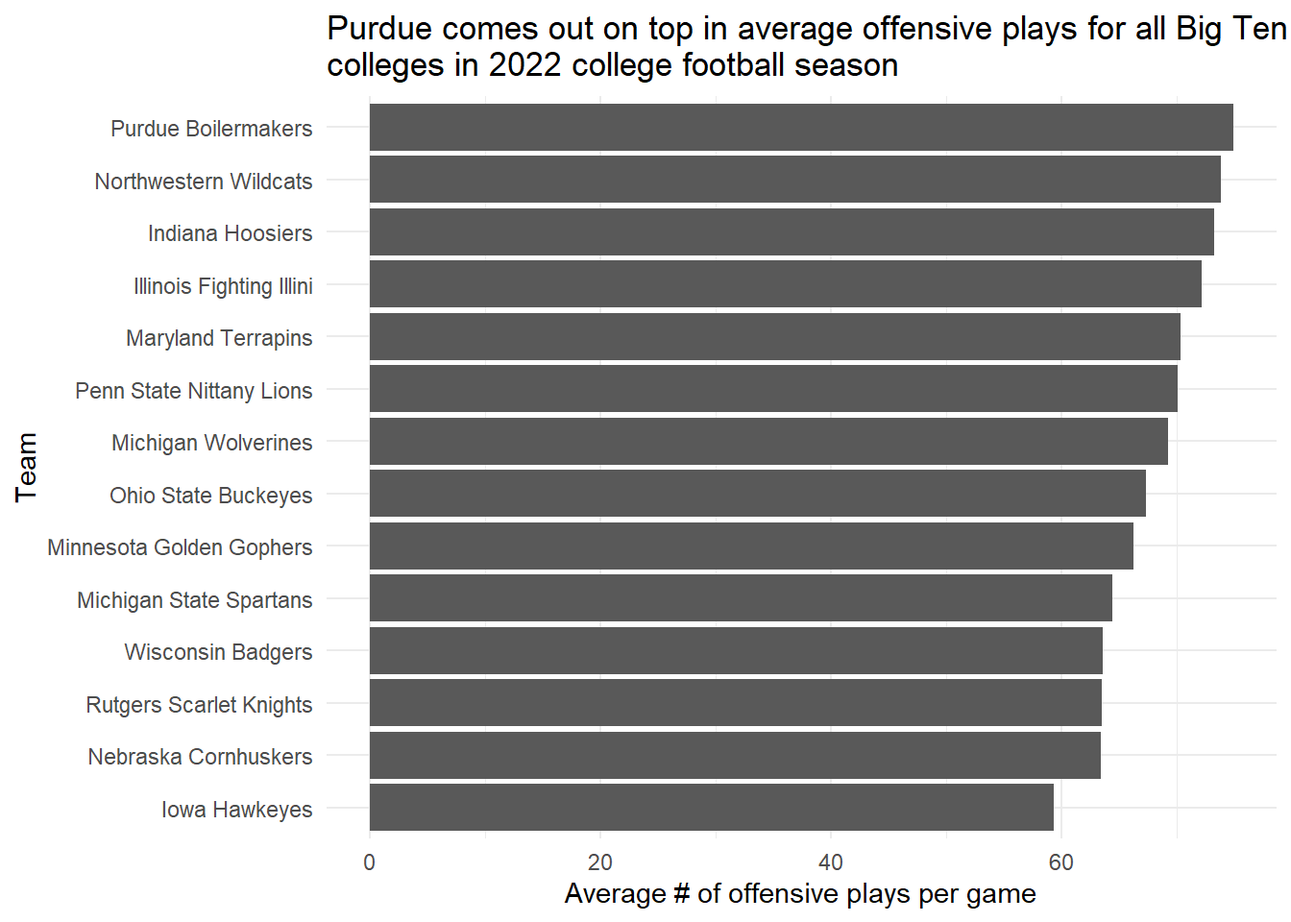
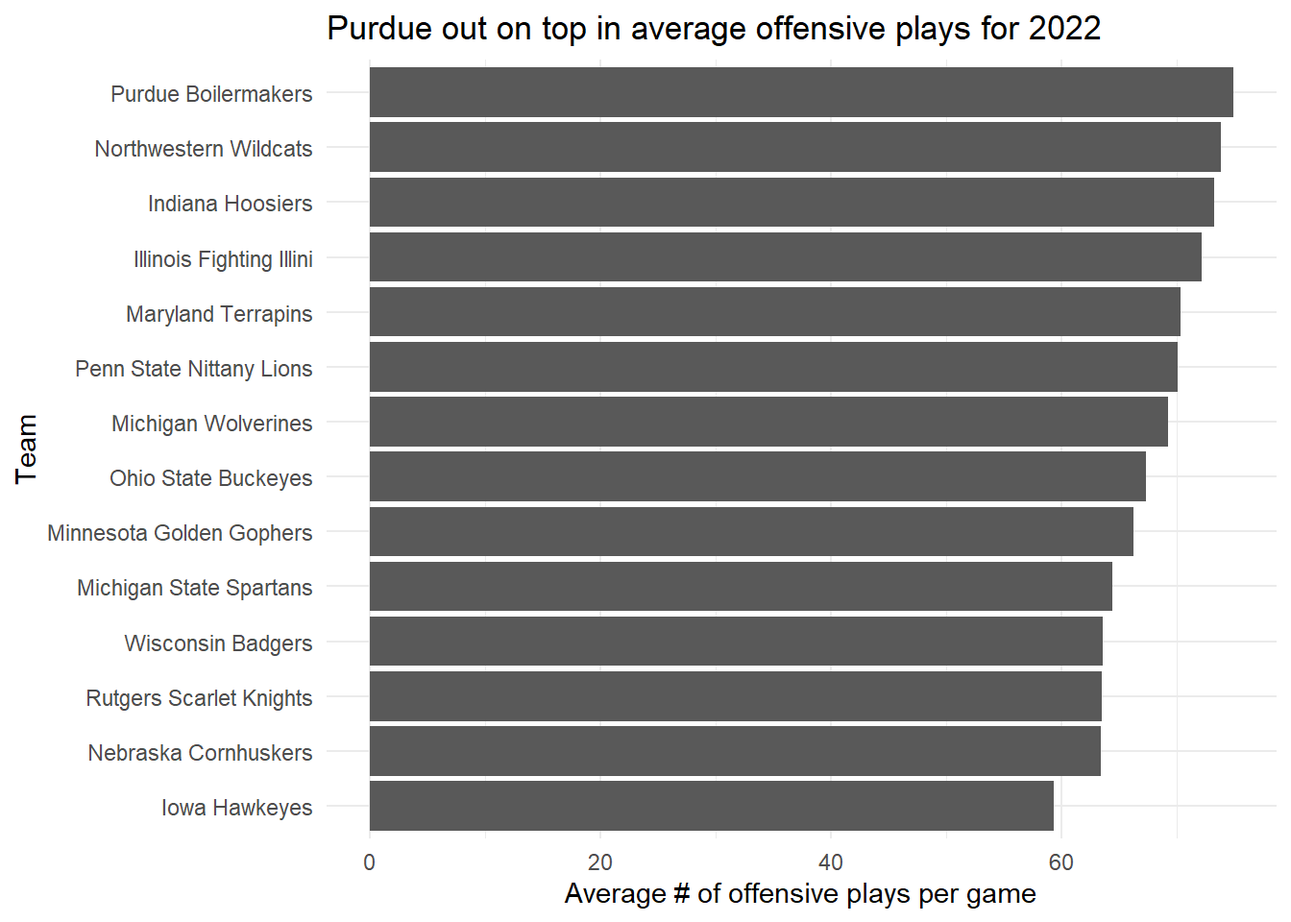
Push

diff --git a/docs/posts/big-ten-plays/index.html b/docs/posts/big-ten-plays/index.html
@@ -180,113 +180,41 @@ pre > code.sourceCode > span > a:first-child::before { text-decoration: underlin
 <div class="cell">
 <details>
 <summary>Code</summary>
-<div class="sourceCode cell-code" id="cb1"><pre class="sourceCode r code-with-copy"><code class="sourceCode r"><span id="cb1-1"><a href="#cb1-1" aria-hidden="true" tabindex="-1"></a><span class="fu">library</span>(tidyverse)</span></code><button title="Copy to Clipboard" class="code-copy-button"><i class="bi"></i></button></pre></div>
+<div class="sourceCode cell-code" id="cb1"><pre class="sourceCode r code-with-copy"><code class="sourceCode r"><span id="cb1-1"><a href="#cb1-1" aria-hidden="true" tabindex="-1"></a><span class="fu">library</span>(tidyverse)</span>
+<span id="cb1-2"><a href="#cb1-2" aria-hidden="true" tabindex="-1"></a><span class="fu">library</span>(scales)</span></code><button title="Copy to Clipboard" class="code-copy-button"><i class="bi"></i></button></pre></div>
 </details>
-<div class="cell-output cell-output-stderr">
-<pre><code>Warning: package 'tidyverse' was built under R version 4.2.3</code></pre>
-</div>
-<div class="cell-output cell-output-stderr">
-<pre><code>Warning: package 'ggplot2' was built under R version 4.2.3</code></pre>
-</div>
-<div class="cell-output cell-output-stderr">
-<pre><code>Warning: package 'tibble' was built under R version 4.2.3</code></pre>
-</div>
-<div class="cell-output cell-output-stderr">
-<pre><code>Warning: package 'readr' was built under R version 4.2.3</code></pre>
-</div>
-<div class="cell-output cell-output-stderr">
-<pre><code>Warning: package 'purrr' was built under R version 4.2.3</code></pre>
-</div>
-<div class="cell-output cell-output-stderr">
-<pre><code>Warning: package 'dplyr' was built under R version 4.2.3</code></pre>
-</div>
-<div class="cell-output cell-output-stderr">
-<pre><code>Warning: package 'lubridate' was built under R version 4.2.3</code></pre>
-</div>
-<div class="cell-output cell-output-stderr">
-<pre><code>── Attaching core tidyverse packages ──────────────────────── tidyverse 2.0.0 ──
-✔ dplyr     1.1.2     ✔ readr     2.1.4
-✔ forcats   1.0.0     ✔ stringr   1.5.0
-✔ ggplot2   3.4.3     ✔ tibble    3.2.1
-✔ lubridate 1.9.2     ✔ tidyr     1.3.0
-✔ purrr     1.0.2     
-── Conflicts ────────────────────────────────────────── tidyverse_conflicts() ──
-✖ dplyr::filter() masks stats::filter()
-✖ dplyr::lag()    masks stats::lag()
-ℹ Use the conflicted package (&lt;http://conflicted.r-lib.org/&gt;) to force all conflicts to become errors</code></pre>
-</div>
-<details>
-<summary>Code</summary>
-<div class="sourceCode cell-code" id="cb10"><pre class="sourceCode r code-with-copy"><code class="sourceCode r"><span id="cb10-1"><a href="#cb10-1" aria-hidden="true" tabindex="-1"></a><span class="fu">library</span>(scales)</span></code><button title="Copy to Clipboard" class="code-copy-button"><i class="bi"></i></button></pre></div>
-</details>
-<div class="cell-output cell-output-stderr">
-<pre><code>
-Attaching package: 'scales'
-
-The following object is masked from 'package:purrr':
-
-    discard
-
-The following object is masked from 'package:readr':
-
-    col_factor</code></pre>
-</div>
 </div>
 <p>Here I am loading the library items that will help me construct my code for this exercise.</p>
 <div class="cell">
 <details>
 <summary>Code</summary>
-<div class="sourceCode cell-code" id="cb12"><pre class="sourceCode r code-with-copy"><code class="sourceCode r"><span id="cb12-1"><a href="#cb12-1" aria-hidden="true" tabindex="-1"></a>logs_22 <span class="ot">&lt;-</span> <span class="fu">read_csv</span>(<span class="st">"https://dwillis.github.io/sports-data-files/footballlogs22.csv"</span>)</span></code><button title="Copy to Clipboard" class="code-copy-button"><i class="bi"></i></button></pre></div>
+<div class="sourceCode cell-code" id="cb2"><pre class="sourceCode r code-with-copy"><code class="sourceCode r"><span id="cb2-1"><a href="#cb2-1" aria-hidden="true" tabindex="-1"></a>logs_22 <span class="ot">&lt;-</span> <span class="fu">read_csv</span>(<span class="st">"https://dwillis.github.io/sports-data-files/footballlogs22.csv"</span>)</span>
+<span id="cb2-2"><a href="#cb2-2" aria-hidden="true" tabindex="-1"></a></span>
+<span id="cb2-3"><a href="#cb2-3" aria-hidden="true" tabindex="-1"></a>logs_23 <span class="ot">&lt;-</span> <span class="fu">read_csv</span>(<span class="st">"https://dwillis.github.io/sports-data-files/footballlogs23.csv"</span>)</span></code><button title="Copy to Clipboard" class="code-copy-button"><i class="bi"></i></button></pre></div>
 </details>
-<div class="cell-output cell-output-stderr">
-<pre><code>Rows: 1672 Columns: 54
-── Column specification ────────────────────────────────────────────────────────
-Delimiter: ","
-chr   (8): HomeAway, Opponent, Result, TeamFull, TeamURL, Outcome, Team, Con...
-dbl  (45): Game, PassingCmp, PassingAtt, PassingPct, PassingYds, PassingTD, ...
-date  (1): Date
-
-ℹ Use `spec()` to retrieve the full column specification for this data.
-ℹ Specify the column types or set `show_col_types = FALSE` to quiet this message.</code></pre>
-</div>
-<details>
-<summary>Code</summary>
-<div class="sourceCode cell-code" id="cb14"><pre class="sourceCode r code-with-copy"><code class="sourceCode r"><span id="cb14-1"><a href="#cb14-1" aria-hidden="true" tabindex="-1"></a>logs_23 <span class="ot">&lt;-</span> <span class="fu">read_csv</span>(<span class="st">"https://dwillis.github.io/sports-data-files/footballlogs23.csv"</span>)</span></code><button title="Copy to Clipboard" class="code-copy-button"><i class="bi"></i></button></pre></div>
-</details>
-<div class="cell-output cell-output-stderr">
-<pre><code>Rows: 752 Columns: 54
-── Column specification ────────────────────────────────────────────────────────
-Delimiter: ","
-chr   (8): HomeAway, Opponent, Result, TeamFull, TeamURL, Outcome, Team, Con...
-dbl  (45): Game, PassingCmp, PassingAtt, PassingPct, PassingYds, PassingTD, ...
-date  (1): Date
-
-ℹ Use `spec()` to retrieve the full column specification for this data.
-ℹ Specify the column types or set `show_col_types = FALSE` to quiet this message.</code></pre>
-</div>
 </div>
 <p>Here I am loading the two online datasets for 2022 and 2023 separately into RStudio.</p>
 <div class="cell">
 <details>
 <summary>Code</summary>
-<div class="sourceCode cell-code" id="cb16"><pre class="sourceCode r code-with-copy"><code class="sourceCode r"><span id="cb16-1"><a href="#cb16-1" aria-hidden="true" tabindex="-1"></a>big10 <span class="ot">&lt;-</span> <span class="fu">c</span>(<span class="st">"Nebraska Cornhuskers"</span>, <span class="st">"Iowa Hawkeyes"</span>, <span class="st">"Minnesota Golden Gophers"</span>, <span class="st">"Illinois Fighting Illini"</span>, <span class="st">"Northwestern Wildcats"</span>, <span class="st">"Wisconsin Badgers"</span>, <span class="st">"Indiana Hoosiers"</span>, <span class="st">"Purdue Boilermakers"</span>, <span class="st">"Ohio State Buckeyes"</span>, <span class="st">"Michigan Wolverines"</span>, <span class="st">"Michigan State Spartans"</span>, <span class="st">"Penn State Nittany Lions"</span>, <span class="st">"Rutgers Scarlet Knights"</span>, <span class="st">"Maryland Terrapins"</span>)</span></code><button title="Copy to Clipboard" class="code-copy-button"><i class="bi"></i></button></pre></div>
+<div class="sourceCode cell-code" id="cb3"><pre class="sourceCode r code-with-copy"><code class="sourceCode r"><span id="cb3-1"><a href="#cb3-1" aria-hidden="true" tabindex="-1"></a>big10 <span class="ot">&lt;-</span> <span class="fu">c</span>(<span class="st">"Nebraska Cornhuskers"</span>, <span class="st">"Iowa Hawkeyes"</span>, <span class="st">"Minnesota Golden Gophers"</span>, <span class="st">"Illinois Fighting Illini"</span>, <span class="st">"Northwestern Wildcats"</span>, <span class="st">"Wisconsin Badgers"</span>, <span class="st">"Indiana Hoosiers"</span>, <span class="st">"Purdue Boilermakers"</span>, <span class="st">"Ohio State Buckeyes"</span>, <span class="st">"Michigan Wolverines"</span>, <span class="st">"Michigan State Spartans"</span>, <span class="st">"Penn State Nittany Lions"</span>, <span class="st">"Rutgers Scarlet Knights"</span>, <span class="st">"Maryland Terrapins"</span>)</span></code><button title="Copy to Clipboard" class="code-copy-button"><i class="bi"></i></button></pre></div>
 </details>
 </div>
 <p>This code block constructs a filter category of all the Big Ten colleges to be used in the 2022 and 2023 datasets. Alternatively, one could filter the datasets directly by conference.</p>
 <div class="cell">
 <details>
 <summary>Code</summary>
-<div class="sourceCode cell-code" id="cb17"><pre class="sourceCode r code-with-copy"><code class="sourceCode r"><span id="cb17-1"><a href="#cb17-1" aria-hidden="true" tabindex="-1"></a>logs_22_filtered <span class="ot">&lt;-</span> logs_22 <span class="sc">|&gt;</span> </span>
-<span id="cb17-2"><a href="#cb17-2" aria-hidden="true" tabindex="-1"></a>  <span class="fu">filter</span>(TeamFull <span class="sc">%in%</span> big10) <span class="sc">|&gt;</span></span>
-<span id="cb17-3"><a href="#cb17-3" aria-hidden="true" tabindex="-1"></a>  <span class="fu">select</span>(TeamFull, OffensivePlays) <span class="sc">|&gt;</span></span>
-<span id="cb17-4"><a href="#cb17-4" aria-hidden="true" tabindex="-1"></a>  <span class="fu">group_by</span>(TeamFull) <span class="sc">|&gt;</span></span>
-<span id="cb17-5"><a href="#cb17-5" aria-hidden="true" tabindex="-1"></a>  <span class="fu">summarise</span>(</span>
-<span id="cb17-6"><a href="#cb17-6" aria-hidden="true" tabindex="-1"></a>    <span class="at">TotalOffensivePlays =</span> <span class="fu">sum</span>(OffensivePlays),</span>
-<span id="cb17-7"><a href="#cb17-7" aria-hidden="true" tabindex="-1"></a>    <span class="at">GamesPlayed =</span> <span class="fu">n</span>(),</span>
-<span id="cb17-8"><a href="#cb17-8" aria-hidden="true" tabindex="-1"></a>    <span class="at">AvgOffensivePlaysPerGame =</span> (TotalOffensivePlays<span class="sc">/</span>GamesPlayed)) <span class="sc">|&gt;</span></span>
-<span id="cb17-9"><a href="#cb17-9" aria-hidden="true" tabindex="-1"></a>  <span class="fu">arrange</span>(<span class="fu">desc</span>(AvgOffensivePlaysPerGame))</span>
-<span id="cb17-10"><a href="#cb17-10" aria-hidden="true" tabindex="-1"></a></span>
-<span id="cb17-11"><a href="#cb17-11" aria-hidden="true" tabindex="-1"></a><span class="fu">show</span>(logs_22_filtered)</span></code><button title="Copy to Clipboard" class="code-copy-button"><i class="bi"></i></button></pre></div>
+<div class="sourceCode cell-code" id="cb4"><pre class="sourceCode r code-with-copy"><code class="sourceCode r"><span id="cb4-1"><a href="#cb4-1" aria-hidden="true" tabindex="-1"></a>logs_22_filtered <span class="ot">&lt;-</span> logs_22 <span class="sc">|&gt;</span> </span>
+<span id="cb4-2"><a href="#cb4-2" aria-hidden="true" tabindex="-1"></a>  <span class="fu">filter</span>(TeamFull <span class="sc">%in%</span> big10) <span class="sc">|&gt;</span></span>
+<span id="cb4-3"><a href="#cb4-3" aria-hidden="true" tabindex="-1"></a>  <span class="fu">select</span>(TeamFull, OffensivePlays) <span class="sc">|&gt;</span></span>
+<span id="cb4-4"><a href="#cb4-4" aria-hidden="true" tabindex="-1"></a>  <span class="fu">group_by</span>(TeamFull) <span class="sc">|&gt;</span></span>
+<span id="cb4-5"><a href="#cb4-5" aria-hidden="true" tabindex="-1"></a>  <span class="fu">summarise</span>(</span>
+<span id="cb4-6"><a href="#cb4-6" aria-hidden="true" tabindex="-1"></a>    <span class="at">TotalOffensivePlays =</span> <span class="fu">sum</span>(OffensivePlays),</span>
+<span id="cb4-7"><a href="#cb4-7" aria-hidden="true" tabindex="-1"></a>    <span class="at">GamesPlayed =</span> <span class="fu">n</span>(),</span>
+<span id="cb4-8"><a href="#cb4-8" aria-hidden="true" tabindex="-1"></a>    <span class="at">AvgOffensivePlaysPerGame =</span> (TotalOffensivePlays<span class="sc">/</span>GamesPlayed)) <span class="sc">|&gt;</span></span>
+<span id="cb4-9"><a href="#cb4-9" aria-hidden="true" tabindex="-1"></a>  <span class="fu">arrange</span>(<span class="fu">desc</span>(AvgOffensivePlaysPerGame))</span>
+<span id="cb4-10"><a href="#cb4-10" aria-hidden="true" tabindex="-1"></a></span>
+<span id="cb4-11"><a href="#cb4-11" aria-hidden="true" tabindex="-1"></a><span class="fu">show</span>(logs_22_filtered)</span></code><button title="Copy to Clipboard" class="code-copy-button"><i class="bi"></i></button></pre></div>
 </details>
 <div class="cell-output cell-output-stdout">
 <pre><code># A tibble: 14 × 4
@@ -313,18 +241,18 @@ date  (1): Date
 <div class="cell">
 <details>
 <summary>Code</summary>
-<div class="sourceCode cell-code" id="cb19"><pre class="sourceCode r code-with-copy"><code class="sourceCode r"><span id="cb19-1"><a href="#cb19-1" aria-hidden="true" tabindex="-1"></a><span class="fu">ggplot</span>() <span class="sc">+</span> </span>
-<span id="cb19-2"><a href="#cb19-2" aria-hidden="true" tabindex="-1"></a>  <span class="fu">geom_bar</span>(</span>
-<span id="cb19-3"><a href="#cb19-3" aria-hidden="true" tabindex="-1"></a>    <span class="at">data=</span>logs_22_filtered, </span>
-<span id="cb19-4"><a href="#cb19-4" aria-hidden="true" tabindex="-1"></a>    <span class="fu">aes</span>(<span class="at">x=</span><span class="fu">reorder</span>(TeamFull, AvgOffensivePlaysPerGame),</span>
-<span id="cb19-5"><a href="#cb19-5" aria-hidden="true" tabindex="-1"></a>        <span class="at">weight=</span>AvgOffensivePlaysPerGame)) <span class="sc">+</span> </span>
-<span id="cb19-6"><a href="#cb19-6" aria-hidden="true" tabindex="-1"></a>  <span class="fu">scale_y_continuous</span>(<span class="at">labels=</span>comma) <span class="sc">+</span> </span>
-<span id="cb19-7"><a href="#cb19-7" aria-hidden="true" tabindex="-1"></a>  <span class="fu">labs</span>(</span>
-<span id="cb19-8"><a href="#cb19-8" aria-hidden="true" tabindex="-1"></a>    <span class="at">title=</span><span class="st">"Purdue comes out on top in average offensive plays for all Big Ten </span><span class="sc">\n</span><span class="st">colleges in 2022 college football season"</span>, </span>
-<span id="cb19-9"><a href="#cb19-9" aria-hidden="true" tabindex="-1"></a>    <span class="at">x=</span><span class="st">"Team"</span>, </span>
-<span id="cb19-10"><a href="#cb19-10" aria-hidden="true" tabindex="-1"></a>    <span class="at">y=</span><span class="st">"Average # of offensive plays per game"</span>) <span class="sc">+</span> </span>
-<span id="cb19-11"><a href="#cb19-11" aria-hidden="true" tabindex="-1"></a>  <span class="fu">theme_minimal</span>() <span class="sc">+</span> </span>
-<span id="cb19-12"><a href="#cb19-12" aria-hidden="true" tabindex="-1"></a>  <span class="fu">coord_flip</span>()</span></code><button title="Copy to Clipboard" class="code-copy-button"><i class="bi"></i></button></pre></div>
+<div class="sourceCode cell-code" id="cb6"><pre class="sourceCode r code-with-copy"><code class="sourceCode r"><span id="cb6-1"><a href="#cb6-1" aria-hidden="true" tabindex="-1"></a><span class="fu">ggplot</span>() <span class="sc">+</span> </span>
+<span id="cb6-2"><a href="#cb6-2" aria-hidden="true" tabindex="-1"></a>  <span class="fu">geom_bar</span>(</span>
+<span id="cb6-3"><a href="#cb6-3" aria-hidden="true" tabindex="-1"></a>    <span class="at">data=</span>logs_22_filtered, </span>
+<span id="cb6-4"><a href="#cb6-4" aria-hidden="true" tabindex="-1"></a>    <span class="fu">aes</span>(<span class="at">x=</span><span class="fu">reorder</span>(TeamFull, AvgOffensivePlaysPerGame),</span>
+<span id="cb6-5"><a href="#cb6-5" aria-hidden="true" tabindex="-1"></a>        <span class="at">weight=</span>AvgOffensivePlaysPerGame)) <span class="sc">+</span> </span>
+<span id="cb6-6"><a href="#cb6-6" aria-hidden="true" tabindex="-1"></a>  <span class="fu">scale_y_continuous</span>(<span class="at">labels=</span>comma) <span class="sc">+</span> </span>
+<span id="cb6-7"><a href="#cb6-7" aria-hidden="true" tabindex="-1"></a>  <span class="fu">labs</span>(</span>
+<span id="cb6-8"><a href="#cb6-8" aria-hidden="true" tabindex="-1"></a>    <span class="at">title=</span><span class="st">"Purdue out on top in average offensive plays for 2022"</span>, </span>
+<span id="cb6-9"><a href="#cb6-9" aria-hidden="true" tabindex="-1"></a>    <span class="at">x=</span><span class="st">"Team"</span>, </span>
+<span id="cb6-10"><a href="#cb6-10" aria-hidden="true" tabindex="-1"></a>    <span class="at">y=</span><span class="st">"Average # of offensive plays per game"</span>) <span class="sc">+</span> </span>
+<span id="cb6-11"><a href="#cb6-11" aria-hidden="true" tabindex="-1"></a>  <span class="fu">theme_minimal</span>() <span class="sc">+</span> </span>
+<span id="cb6-12"><a href="#cb6-12" aria-hidden="true" tabindex="-1"></a>  <span class="fu">coord_flip</span>()</span></code><button title="Copy to Clipboard" class="code-copy-button"><i class="bi"></i></button></pre></div>
 </details>
 <div class="cell-output-display">
 <p><img src="index_files/figure-html/unnamed-chunk-5-1.png" class="img-fluid" width="672"></p>
@@ -335,17 +263,17 @@ date  (1): Date
 <div class="cell">
 <details>
 <summary>Code</summary>
-<div class="sourceCode cell-code" id="cb20"><pre class="sourceCode r code-with-copy"><code class="sourceCode r"><span id="cb20-1"><a href="#cb20-1" aria-hidden="true" tabindex="-1"></a>logs_23_filtered <span class="ot">&lt;-</span> logs_23 <span class="sc">|&gt;</span> </span>
-<span id="cb20-2"><a href="#cb20-2" aria-hidden="true" tabindex="-1"></a>  <span class="fu">filter</span>(TeamFull <span class="sc">%in%</span> big10) <span class="sc">|&gt;</span></span>
-<span id="cb20-3"><a href="#cb20-3" aria-hidden="true" tabindex="-1"></a>  <span class="fu">select</span>(TeamFull, OffensivePlays) <span class="sc">|&gt;</span></span>
-<span id="cb20-4"><a href="#cb20-4" aria-hidden="true" tabindex="-1"></a>  <span class="fu">group_by</span>(TeamFull) <span class="sc">|&gt;</span></span>
-<span id="cb20-5"><a href="#cb20-5" aria-hidden="true" tabindex="-1"></a>  <span class="fu">summarise</span>(</span>
-<span id="cb20-6"><a href="#cb20-6" aria-hidden="true" tabindex="-1"></a>    <span class="at">TotalOffensivePlays =</span> <span class="fu">sum</span>(OffensivePlays),</span>
-<span id="cb20-7"><a href="#cb20-7" aria-hidden="true" tabindex="-1"></a>    <span class="at">GamesPlayed =</span> <span class="fu">n</span>(),</span>
-<span id="cb20-8"><a href="#cb20-8" aria-hidden="true" tabindex="-1"></a>    <span class="at">AvgOffensivePlaysPerGame =</span> (TotalOffensivePlays<span class="sc">/</span>GamesPlayed)) <span class="sc">|&gt;</span></span>
-<span id="cb20-9"><a href="#cb20-9" aria-hidden="true" tabindex="-1"></a>  <span class="fu">arrange</span>(<span class="fu">desc</span>(AvgOffensivePlaysPerGame))</span>
-<span id="cb20-10"><a href="#cb20-10" aria-hidden="true" tabindex="-1"></a></span>
-<span id="cb20-11"><a href="#cb20-11" aria-hidden="true" tabindex="-1"></a><span class="fu">show</span>(logs_23_filtered)</span></code><button title="Copy to Clipboard" class="code-copy-button"><i class="bi"></i></button></pre></div>
+<div class="sourceCode cell-code" id="cb7"><pre class="sourceCode r code-with-copy"><code class="sourceCode r"><span id="cb7-1"><a href="#cb7-1" aria-hidden="true" tabindex="-1"></a>logs_23_filtered <span class="ot">&lt;-</span> logs_23 <span class="sc">|&gt;</span> </span>
+<span id="cb7-2"><a href="#cb7-2" aria-hidden="true" tabindex="-1"></a>  <span class="fu">filter</span>(TeamFull <span class="sc">%in%</span> big10) <span class="sc">|&gt;</span></span>
+<span id="cb7-3"><a href="#cb7-3" aria-hidden="true" tabindex="-1"></a>  <span class="fu">select</span>(TeamFull, OffensivePlays) <span class="sc">|&gt;</span></span>
+<span id="cb7-4"><a href="#cb7-4" aria-hidden="true" tabindex="-1"></a>  <span class="fu">group_by</span>(TeamFull) <span class="sc">|&gt;</span></span>
+<span id="cb7-5"><a href="#cb7-5" aria-hidden="true" tabindex="-1"></a>  <span class="fu">summarise</span>(</span>
+<span id="cb7-6"><a href="#cb7-6" aria-hidden="true" tabindex="-1"></a>    <span class="at">TotalOffensivePlays =</span> <span class="fu">sum</span>(OffensivePlays),</span>
+<span id="cb7-7"><a href="#cb7-7" aria-hidden="true" tabindex="-1"></a>    <span class="at">GamesPlayed =</span> <span class="fu">n</span>(),</span>
+<span id="cb7-8"><a href="#cb7-8" aria-hidden="true" tabindex="-1"></a>    <span class="at">AvgOffensivePlaysPerGame =</span> (TotalOffensivePlays<span class="sc">/</span>GamesPlayed)) <span class="sc">|&gt;</span></span>
+<span id="cb7-9"><a href="#cb7-9" aria-hidden="true" tabindex="-1"></a>  <span class="fu">arrange</span>(<span class="fu">desc</span>(AvgOffensivePlaysPerGame))</span>
+<span id="cb7-10"><a href="#cb7-10" aria-hidden="true" tabindex="-1"></a></span>
+<span id="cb7-11"><a href="#cb7-11" aria-hidden="true" tabindex="-1"></a><span class="fu">show</span>(logs_23_filtered)</span></code><button title="Copy to Clipboard" class="code-copy-button"><i class="bi"></i></button></pre></div>
 </details>
 <div class="cell-output cell-output-stdout">
 <pre><code># A tibble: 14 × 4
@@ -372,18 +300,18 @@ date  (1): Date
 <div class="cell">
 <details>
 <summary>Code</summary>
-<div class="sourceCode cell-code" id="cb22"><pre class="sourceCode r code-with-copy"><code class="sourceCode r"><span id="cb22-1"><a href="#cb22-1" aria-hidden="true" tabindex="-1"></a><span class="fu">ggplot</span>() <span class="sc">+</span> </span>
-<span id="cb22-2"><a href="#cb22-2" aria-hidden="true" tabindex="-1"></a>  <span class="fu">geom_bar</span>(</span>
-<span id="cb22-3"><a href="#cb22-3" aria-hidden="true" tabindex="-1"></a>    <span class="at">data=</span>logs_23_filtered, </span>
-<span id="cb22-4"><a href="#cb22-4" aria-hidden="true" tabindex="-1"></a>    <span class="fu">aes</span>(<span class="at">x=</span><span class="fu">reorder</span>(TeamFull, AvgOffensivePlaysPerGame),</span>
-<span id="cb22-5"><a href="#cb22-5" aria-hidden="true" tabindex="-1"></a>        <span class="at">weight=</span>AvgOffensivePlaysPerGame)) <span class="sc">+</span> </span>
-<span id="cb22-6"><a href="#cb22-6" aria-hidden="true" tabindex="-1"></a>  <span class="fu">scale_y_continuous</span>(<span class="at">labels=</span>comma) <span class="sc">+</span> </span>
-<span id="cb22-7"><a href="#cb22-7" aria-hidden="true" tabindex="-1"></a>  <span class="fu">labs</span>(</span>
-<span id="cb22-8"><a href="#cb22-8" aria-hidden="true" tabindex="-1"></a>    <span class="at">title=</span><span class="st">"Penn State currently overtaking Purdue in average offensive plays </span><span class="sc">\n</span><span class="st">for all Big Ten colleges in 2023 college football season"</span>, </span>
-<span id="cb22-9"><a href="#cb22-9" aria-hidden="true" tabindex="-1"></a>    <span class="at">x=</span><span class="st">"Team"</span>, </span>
-<span id="cb22-10"><a href="#cb22-10" aria-hidden="true" tabindex="-1"></a>    <span class="at">y=</span><span class="st">"Average # of offensive plays per game"</span>) <span class="sc">+</span> </span>
-<span id="cb22-11"><a href="#cb22-11" aria-hidden="true" tabindex="-1"></a>  <span class="fu">theme_minimal</span>() <span class="sc">+</span> </span>
-<span id="cb22-12"><a href="#cb22-12" aria-hidden="true" tabindex="-1"></a>  <span class="fu">coord_flip</span>()</span></code><button title="Copy to Clipboard" class="code-copy-button"><i class="bi"></i></button></pre></div>
+<div class="sourceCode cell-code" id="cb9"><pre class="sourceCode r code-with-copy"><code class="sourceCode r"><span id="cb9-1"><a href="#cb9-1" aria-hidden="true" tabindex="-1"></a><span class="fu">ggplot</span>() <span class="sc">+</span> </span>
+<span id="cb9-2"><a href="#cb9-2" aria-hidden="true" tabindex="-1"></a>  <span class="fu">geom_bar</span>(</span>
+<span id="cb9-3"><a href="#cb9-3" aria-hidden="true" tabindex="-1"></a>    <span class="at">data=</span>logs_23_filtered, </span>
+<span id="cb9-4"><a href="#cb9-4" aria-hidden="true" tabindex="-1"></a>    <span class="fu">aes</span>(<span class="at">x=</span><span class="fu">reorder</span>(TeamFull, AvgOffensivePlaysPerGame),</span>
+<span id="cb9-5"><a href="#cb9-5" aria-hidden="true" tabindex="-1"></a>        <span class="at">weight=</span>AvgOffensivePlaysPerGame)) <span class="sc">+</span> </span>
+<span id="cb9-6"><a href="#cb9-6" aria-hidden="true" tabindex="-1"></a>  <span class="fu">scale_y_continuous</span>(<span class="at">labels=</span>comma) <span class="sc">+</span> </span>
+<span id="cb9-7"><a href="#cb9-7" aria-hidden="true" tabindex="-1"></a>  <span class="fu">labs</span>(</span>
+<span id="cb9-8"><a href="#cb9-8" aria-hidden="true" tabindex="-1"></a>    <span class="at">title=</span><span class="st">"Penn State overtakes Purdue in average offensive plays for 2023"</span>, </span>
+<span id="cb9-9"><a href="#cb9-9" aria-hidden="true" tabindex="-1"></a>    <span class="at">x=</span><span class="st">"Team"</span>, </span>
+<span id="cb9-10"><a href="#cb9-10" aria-hidden="true" tabindex="-1"></a>    <span class="at">y=</span><span class="st">"Average # of offensive plays per game"</span>) <span class="sc">+</span> </span>
+<span id="cb9-11"><a href="#cb9-11" aria-hidden="true" tabindex="-1"></a>  <span class="fu">theme_minimal</span>() <span class="sc">+</span> </span>
+<span id="cb9-12"><a href="#cb9-12" aria-hidden="true" tabindex="-1"></a>  <span class="fu">coord_flip</span>()</span></code><button title="Copy to Clipboard" class="code-copy-button"><i class="bi"></i></button></pre></div>
 </details>
 <div class="cell-output-display">
 <p><img src="index_files/figure-html/unnamed-chunk-7-1.png" class="img-fluid" width="672"></p>

diff --git a/docs/index.html b/docs/index.html
@@ -170,7 +170,7 @@ ul.task-list li input[type="checkbox"] {
 
 <div class="quarto-listing quarto-listing-container-default" id="listing-listing">
 <div class="list quarto-listing-default">
-<div class="quarto-post image-right" data-index="0" data-listing-date-sort="1696910400000" data-listing-file-modified-sort="1696993507950" data-listing-date-modified-sort="NaN" data-listing-reading-time-sort="5">
+<div class="quarto-post image-right" data-index="0" data-listing-date-sort="1696910400000" data-listing-file-modified-sort="1697135980291" data-listing-date-modified-sort="NaN" data-listing-reading-time-sort="5">
 <div class="thumbnail">
 <p><a href="./posts/big-ten-plays/index.html"> <p class="card-img-top"><img src="posts\big-ten-plays\index_files\figure-html\unnamed-chunk-5-1.png"  class="thumbnail-image card-img"/></p> </a></p>
 </div>
